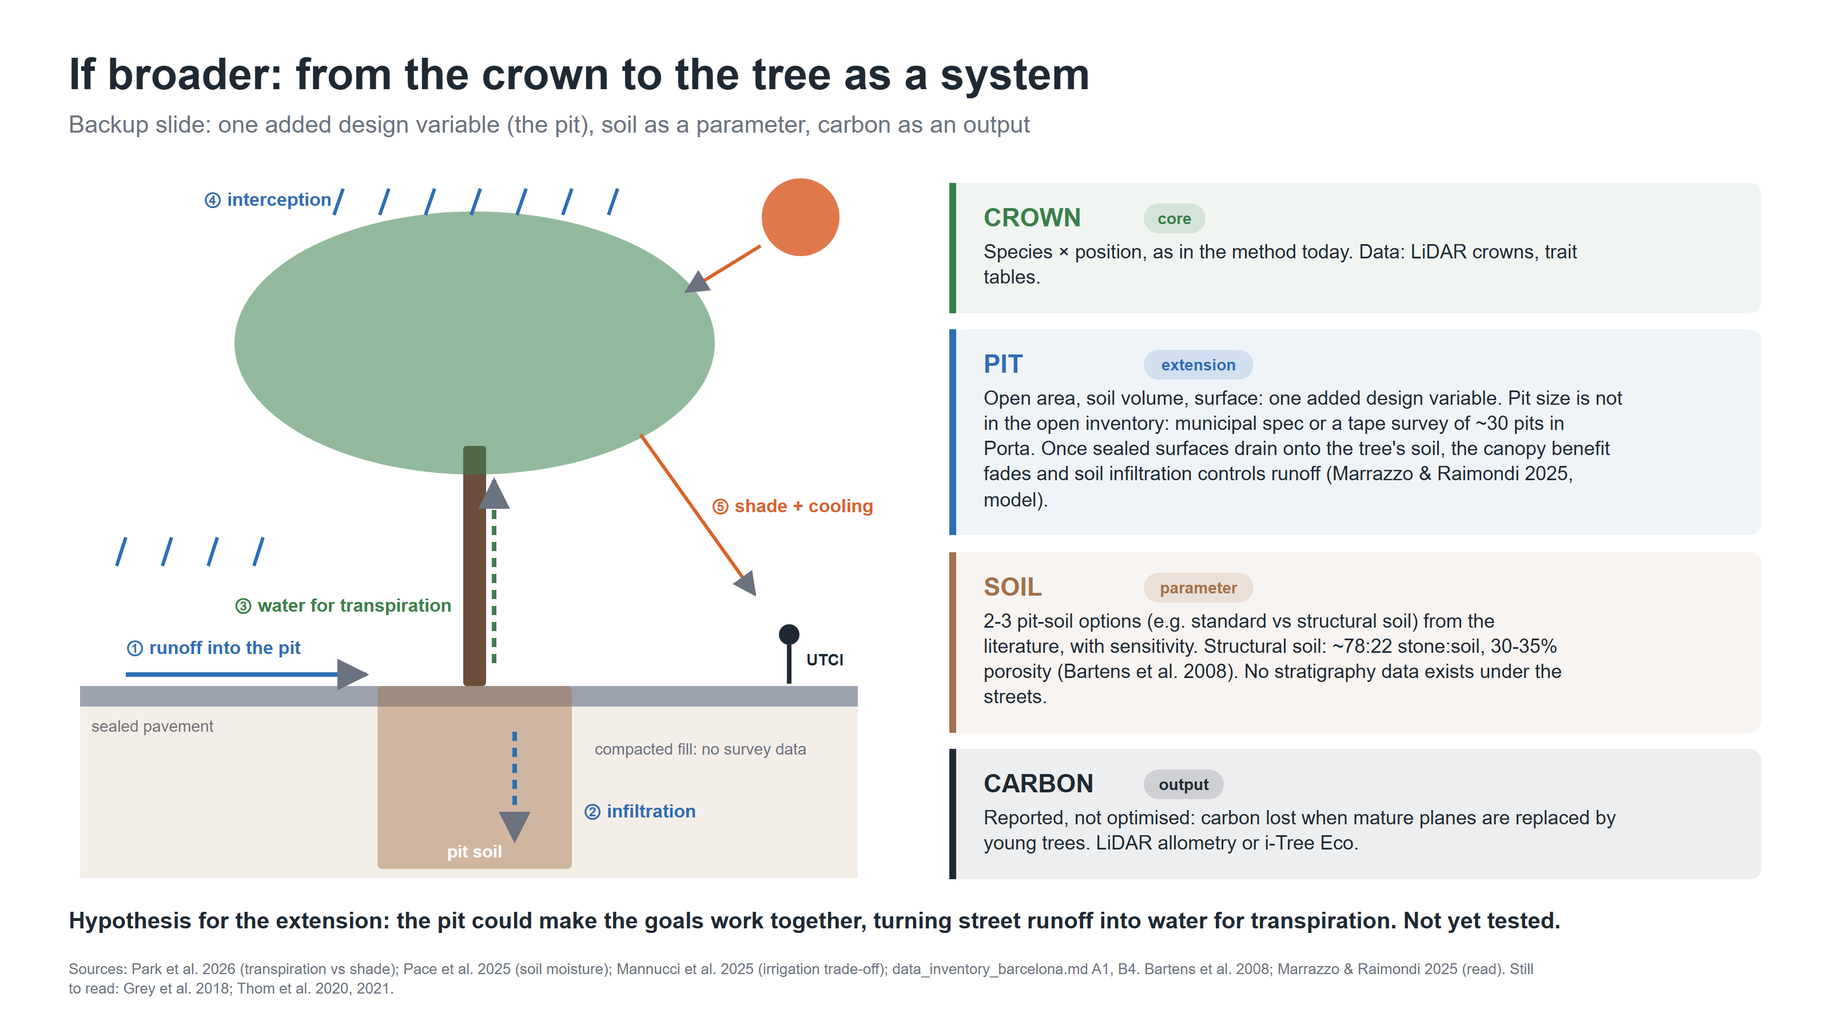
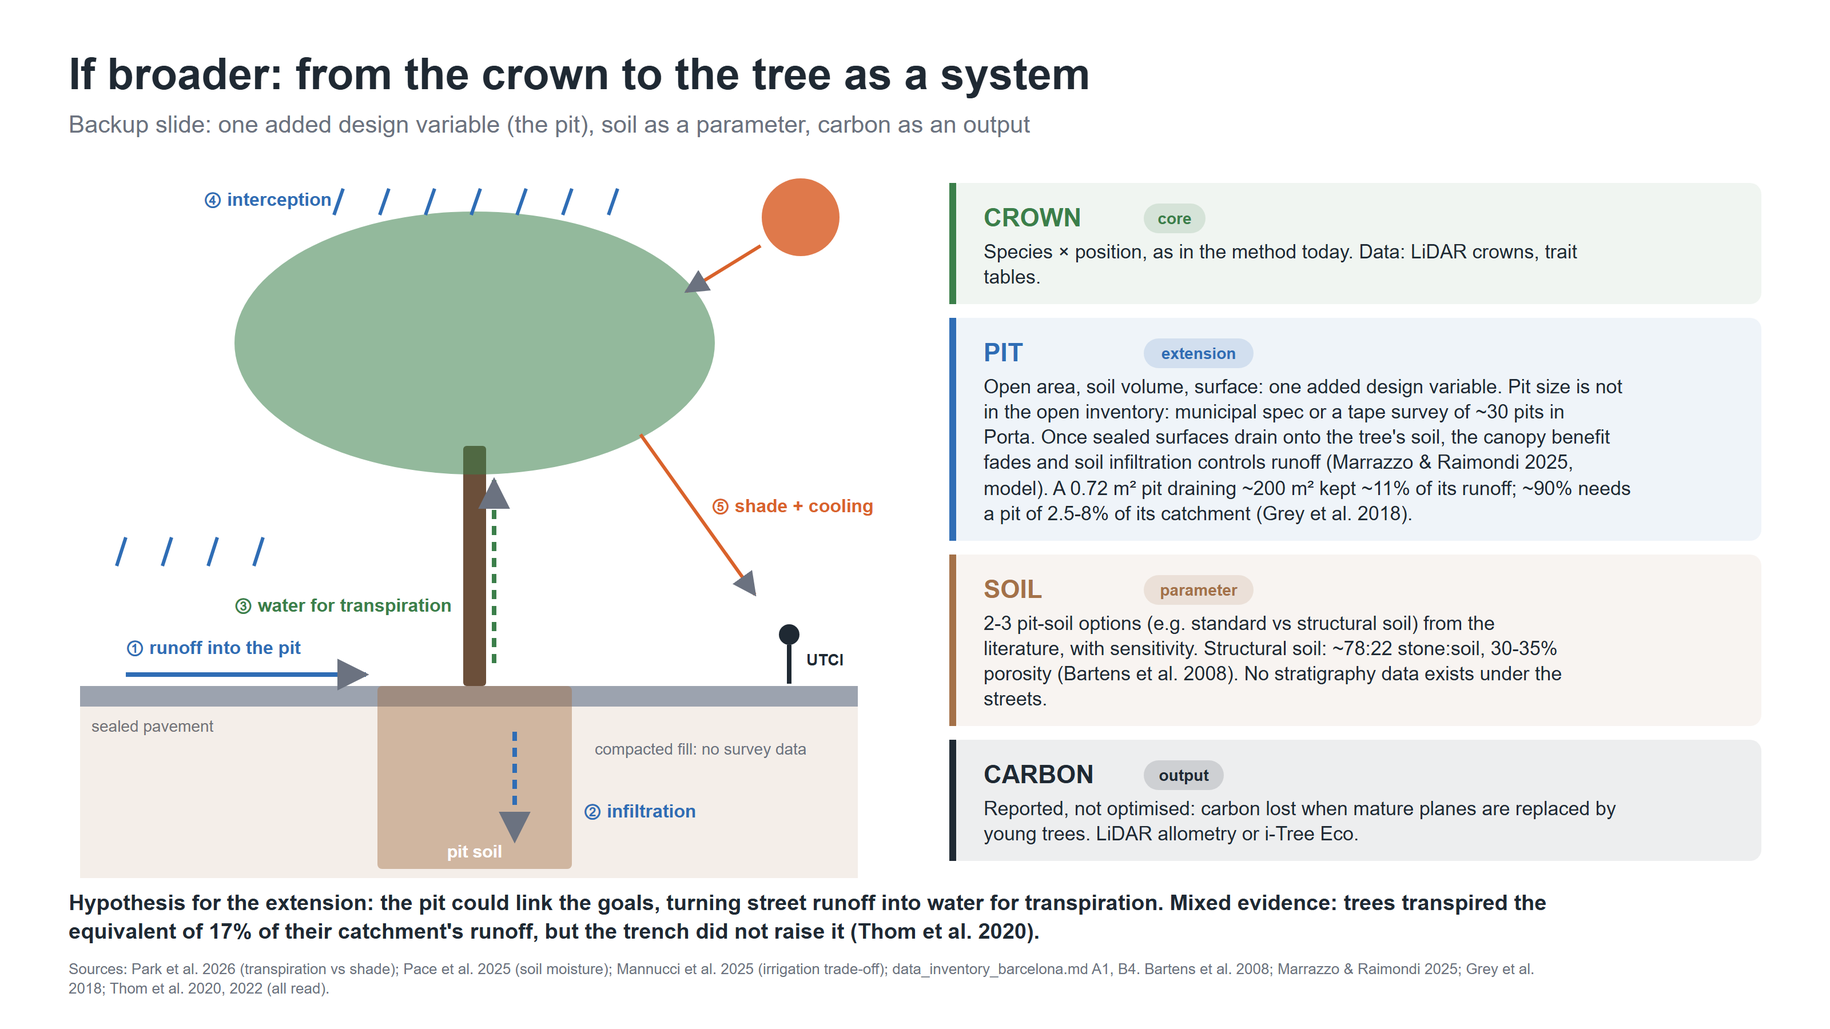
Read the three tree-pit papers (Grey 2018, Thom 2020, Thom 2022)
- Literature matrix rows 77-79; 79 sources, 65 read in full.
- Backup slide B1 and figure 7: pit sizing (0.72 m2 pits draining ~200 m2
  kept a median 11%; ~90% needs pits of 2.5-8% of the catchment) and the
  transpiration link stated as mixed evidence (17% of catchment runoff
  transpired, but trenches did not raise transpiration).
- Methodology: pit variables (pit-to-catchment ratio, native-soil
  exfiltration) and species crop factor (Pyrus calleryana high).
- Species measurements: Pyrus crop factor class; Jacaranda water use
  (second-hand, figure 5 note e).
- to_get_manually.md: the three moved to obtained (43 of 96).
- Fixes from the fact-checker run before commit.

diff --git a/scripts/make_infographics.py b/scripts/make_infographics.py
@@ -267,7 +267,8 @@ def fig_palette():
              ("Pyrus calleryana", 4): ("b", "Pyrus: UTCI -3.5 to -6.3 °C, but modelled as a default ENVI-met tree, so it reflects size, not species (Silva et al. 2025)"),
              ("Tipuana tipu", 4): ("c", "Tipuana: PET -15.6 °C, second-hand only (Santos Nouri et al. 2018, cited in Silva et al. 2025)"),
              ("Jacaranda mimosifolia", 3): ("d", "Jacaranda: 15.3% interception for a small tree, city-scale model, second-hand (Xiao & McPherson 2003, cited in Huang et al. 2017)"),
-             ("Brachychiton populneus", 4): ("e", "Brachychiton: transpiration only (lowest of the Los Angeles species), second-hand (McCarthy et al. 2011, cited in Berland et al. 2017)")}
+             ("Brachychiton populneus", 4): ("e", "Brachychiton, Jacaranda: water use only, second-hand (McCarthy et al. 2011 via Berland et al. 2017; Pataki et al. 2011 via Thom et al. 2022)"),
+             ("Jacaranda mimosifolia", 4): ("e", "Brachychiton, Jacaranda: water use only, second-hand (McCarthy et al. 2011 via Berland et al. 2017; Pataki et al. 2011 via Thom et al. 2022)")}
     cx = [700, 880, 1060, 1240, 1420]
     b = "".join(para(x, 175, c, 170, 16, weight="bold", anchor="middle", fill=col)[0] for x, (c, col, _) in zip(cx, cols))
     y = 225
@@ -283,8 +284,8 @@ def fig_palette():
             b += line(60, y + 62, 1540, y + 62, GRID, 2)
         y += 56 if not cur else 70
     b += legend_balls(60, y + 10)
-    b += "".join(t(60, y + 40 + 18 * j, f"({k}) {v}", 14, MUTED) for j, (k, v) in enumerate(notes.values()))
-    tk, _ = para(60, y + 70 + 18 * len(notes), "Every candidate's crown can be measured on site. Rain storage is measured for one candidate (Pyrus), "
+    b += "".join(t(60, y + 40 + 18 * j, f"({k}) {v}", 14, MUTED) for j, (k, v) in enumerate(dict.fromkeys(notes.values())))
+    tk, _ = para(60, y + 70 + 18 * len(set(notes.values())), "Every candidate's crown can be measured on site. Rain storage is measured for one candidate (Pyrus), "
                               "plus Celtis through a congener; cooling values are only modelled or second-hand. The method fills the gaps "
                               "with trait proxies and sensitivity ranges, and reports them as a finding.", 1480, 19, weight="bold")
     save("05_palette_data_gap", "The replacement palette: crowns we can measure, rain and cooling mostly not",
@@ -357,7 +358,8 @@ def fig_tree_system():
     cards = [("CROWN", TREE, "core", "Species × position, as in the method today. Data: LiDAR crowns, trait tables."),
              ("PIT", RAIN, "extension", "Open area, soil volume, surface: one added design variable. Pit size is not in the open inventory: "
               "municipal spec or a tape survey of ~30 pits in Porta. Once sealed surfaces drain onto the tree's soil, the "
-              "canopy benefit fades and soil infiltration controls runoff (Marrazzo & Raimondi 2025, model)."),
+              "canopy benefit fades and soil infiltration controls runoff (Marrazzo & Raimondi 2025, model). A 0.72 m\u00b2 pit draining ~200 m\u00b2 "
+              "kept ~11% of its runoff; ~90% needs a pit of 2.5-8% of its catchment (Grey et al. 2018)."),
              ("SOIL", SOIL, "parameter", "2-3 pit-soil options (e.g. standard vs structural soil) from the literature, with "
               "sensitivity. Structural soil: ~78:22 stone:soil, 30-35% porosity (Bartens et al. 2008). No stratigraphy data exists under the streets."),
              ("CARBON", INK, "output", "Reported, not optimised: carbon lost when mature planes are replaced by young trees. "
@@ -365,16 +367,16 @@ def fig_tree_system():
     y = 160
     for head, col, tag, txt in cards:
         p, hh = para(860, y + 66, txt, 640, 17)
-        hgt = max(hh + 70, 110)
+        hgt = max(hh + 62, 100)
         b += rect(830, y, 710, hgt, col, rx=10, op=0.08) + rect(830, y, 6, hgt, col, rx=0)
         b += t(860, y + 38, head, 22, col, "bold") + chip(1000, y + 18, tag, col) + p
-        y += hgt + 14
-    tk, _ = para(60, 812, "Hypothesis for the extension: the pit could make the goals work together, turning street runoff "
-                                "into water for transpiration. Not yet tested.", 1480, 20, weight="bold")
+        y += hgt + 12
+    tk, _ = para(60, 796, "Hypothesis for the extension: the pit could link the goals, turning street runoff into water for transpiration. Mixed evidence: "
+                                "trees transpired the equivalent of 17% of their catchment's runoff, but the trench did not raise it (Thom et al. 2020).", 1480, 19, weight="bold")
     save("07_tree_system_backup", "If broader: from the crown to the tree as a system",
          "Backup slide: one added design variable (the pit), soil as a parameter, carbon as an output", b + tk,
          "Park et al. 2026 (transpiration vs shade); Pace et al. 2025 (soil moisture); Mannucci et al. 2025 (irrigation trade-off); "
-         "data_inventory_barcelona.md A1, B4. Bartens et al. 2008; Marrazzo & Raimondi 2025 (read). Still to read: Grey et al. 2018; Thom et al. 2020, 2021.")
+         "data_inventory_barcelona.md A1, B4. Bartens et al. 2008; Marrazzo & Raimondi 2025; Grey et al. 2018; Thom et al. 2020, 2022 (all read).")
 
 
 if __name__ == "__main__":

diff --git a/notes/lit/to_get_manually.md b/notes/lit/to_get_manually.md
@@ -2,17 +2,14 @@
 
 Paywalled, or no open-access PDF found by the search. Get them through Zotero / IAAC access, save them in `papers/`, then tell Claude, which reads them and updates `literature_matrix.csv`. T1 = screened as most relevant, T2 = second tier.
 
-**Status 9 Oct 2026:** 40 of 96 obtained and read in full; 56 of the list still to get, plus 1 added by hand (Santos Nouri 2018). Years in the entries are the search's (often online) years; the matrix uses the issue year (e.g. Zölch 2019, Cortinovis 2022, Marrazzo 2025).
+**Status 9 Oct 2026:** 43 of 96 obtained and read in full; 53 of the list still to get, plus 1 added by hand (Santos Nouri 2018). Years in the entries are the search's (often online) years; the matrix uses the issue year (e.g. Zölch 2019, Cortinovis 2022, Marrazzo 2025).
 
-## 1. Get these first (12)
-Selbig, Dowtin, Hassan, de Mello, Rahman 2019, Speak, Kaluarachchi and Santos Nouri carry claims that the slides, figures or notes now take from abstracts or second-hand; Grey and Thom are needed for backup slide B1; Tan is the last gap check.
+## 1. Get these first (9)
+Selbig, Dowtin, Hassan, de Mello, Rahman 2019, Speak, Kaluarachchi and Santos Nouri carry claims that the slides, figures or notes now take from abstracts or second-hand; Tan is the last gap check.
 
 - [ ] [T1] William R. Selbig (2021). Quantifying the stormwater runoff volume reduction benefits of urban street tree canopy. https://doi.org/10.1016/j.scitotenv.2021.151296 **Why:** the field benchmark on slides 4 and 9 (now read only from the abstract and via Coville 2022). (matrix #10, abstract only)
 - [ ] [T2] Zhe Tan (2026). Surrogate-assisted multi-objective optimization of micro-scale urban tree configurations for heat-stress mitigation with ecological co-benefits. https://doi.org/10.1016/j.scs.2026.107726 **Why:** surrogate-assisted multi-objective tree configuration: the last paper that could overlap the gap.
 - [ ] [T1] Asia L. Dowtin (2023). Towards optimized runoff reduction by urban tree cover: A review of key physical tree traits, site conditions, and management strategies. https://doi.org/10.1016/j.landurbplan.2023.104849 **Why:** review of the tree traits that reduce runoff. (matrix #4, abstract only)
-- [ ] [T2] Vaughn Grey (2018). Tree pits to help mitigate runoff in dense urban areas. https://doi.org/10.1016/j.jhydrol.2018.08.038 **Why:** tree pits in dense streets (backup slide B1).
-- [ ] [T1] Jasmine K. Thom (2020). Transpiration by established trees could increase the efficiency of stormwater control measures. https://doi.org/10.1016/j.watres.2020.115597 **Why:** transpiration in stormwater tree pits (backup slide B1).
-- [ ] [T2] Jasmine K. Thom (2021). Selecting tree species with high transpiration and drought avoidance to optimise runoff reduction in passive irrigation systems. https://doi.org/10.1016/j.scitotenv.2021.151466 **Why:** species with high transpiration for passively irrigated pits (backup slide B1).
 - [ ] [T1] Tarique Hassan (2017). Remote sensing upscaling of interception loss from isolated oaks: Sardon catchment case study, Spain. https://doi.org/10.1016/j.jhydrol.2017.08.016 **Why:** Quercus ilex vs Q. pyrenaica bars in figure 2 (abstract only). (matrix #8, abstract only)
 - [ ] [T1] Carlos Rogério de Mello (2024). Deciphering global patterns of forest canopy rainfall interception (FCRI): A synthesis of geographical, forest species, and methodological influences. https://doi.org/10.1016/j.jenvman.2024.120879 **Why:** global median interception line in figure 2 (abstract only). (matrix #34, abstract only)
 - [ ] [T1] Mohammad A. Rahman (2019). Traits of trees for cooling urban heat islands: A meta-analysis. https://doi.org/10.1016/j.buildenv.2019.106606 **Why:** tree-trait cooling meta-analysis, figure 3 (abstract only). (matrix #38, abstract only)
@@ -73,8 +70,11 @@ Selbig, Dowtin, Hassan, de Mello, Rahman 2019, Speak, Kaluarachchi and Santos No
 - [ ] [T2] Julie Schooling (2015). The influence of rainfall depth class and deciduous tree traits on stemflow production in an urban park. https://doi.org/10.1007/s11252-015-0441-0
 - [ ] [T2] Alireza Nooraei Beidokhti (2021). The effects of precipitation, tree phenology, leaf area index, and bark characteristics on throughfall rates by urban trees: A meta-data analysis. https://doi.org/10.1016/j.ufug.2021.127052
 
-## 3. Obtained and read in full (40)
+## 3. Obtained and read in full (43)
 
+- [x] [T2] Vaughn Grey (2018). Tree pits to help mitigate runoff in dense urban areas. https://doi.org/10.1016/j.jhydrol.2018.08.038 (matrix #77, full text (9 Oct))
+- [x] [T1] Jasmine K. Thom (2020). Transpiration by established trees could increase the efficiency of stormwater control measures. https://doi.org/10.1016/j.watres.2020.115597 (matrix #78, full text (9 Oct))
+- [x] [T2] Jasmine K. Thom (2021). Selecting tree species with high transpiration and drought avoidance to optimise runoff reduction in passive irrigation systems. https://doi.org/10.1016/j.scitotenv.2021.151466 (matrix #79, full text (9 Oct))
 - [x] [T1] Julia Bartens (2008). Can Urban Tree Roots Improve Infiltration through Compacted Subsoils for Stormwater Management?. https://doi.org/10.2134/jeq2008.0117 (matrix #16, full text (8 Oct))
 - [x] [T1] Rizna Rahmi (2025). From native status to functional traits: Rethinking plant selections in global bioretention guidelines. https://doi.org/10.1016/j.ecoleng.2025.107545 (matrix #26, full text (8 Oct))
 - [x] [T1] Dashuai Zhang (2019). Increase and Spatial Variation in Soil Infiltration Rates Associated with Fibrous and Tap Tree Roots. https://doi.org/10.3390/w11081700 (matrix #17, full text (8 Oct))

diff --git a/notes/methodology.md b/notes/methodology.md
@@ -35,7 +35,7 @@ For each tree: position, species, **height H, crown diameter D, crown base Hb** 
 Event based, per street segment:
 1. Rain depth P(T, d) from the PDISBA IDF curves, T = 1, 2, 10 yr, d = 1 h (plus observed storms if BCASA gauge data arrive; fallback: Netatmo personal weather stations, 5-min public data, r = 0.94 with official daily gauges for one event, 24 station pairs, Valencia, Rombeek et al. 2025; check station density in Nou Barris and the data terms first).
 2. **Canopy interception** over each crown's projection on sealed ground: storage-bucket I = min(P, S) with S from species storage capacity × LAI. An analytical Gash-type model (Hassan et al. 2017; Huang et al. 2017) is the refinement; Huang et al. validated it on two conifers only, and found the evaporation-to-rain ratio the most sensitive input. Stemflow is ignored (<1% of rain; Anys & Weiler 2024).
-3. **Tree-pit infiltration**: pit area × infiltration rate × event duration (literature range; Bartens et al. 2008, Zhang et al. 2019). Absolute values from Bartens et al. (read in full): approximate container saturated conductivity of compacted clay loam (1.59 g/cm3) 1.3e-3 cm/s (~47 mm/h) without a tree, 3.0–3.9e-3 cm/s (~108–140 mm/h) with young oak or maple; 1.31e-3 vs 4.83e-5 cm/s (~47 vs ~1.7 mm/h) with vs without green ash (structural soil over compacted subsoil). These are lab values for the most restrictive layer, so use them only to bracket a sensitivity range. Zhang et al. (2019, read in full), three-year-old saplings in loam tanks, one year after planting: 0.28 m/d (~12 mm/h) without a tree, 0.33 m/d (+19%, fibrous *Malus baccata*), 0.61 m/d (~25 mm/h, +118%, tap-rooted *Sophora japonica* = *Styphnolobium*). Roots help; whether the effect depends on species is unclear (Bartens: oak vs maple not significant; Zhang: tap vs fibrous differ, young trees in tanks), so the term stays species-independent. Why the pit matters: once sealed surfaces drain onto the tree's soil, the canopy benefit fades and infiltration controls runoff; with run-on from 3× the soil area, raising infiltration from 0.036 to 3.6 mm/h cuts the November runoff probability from 89% to <1% (Marrazzo & Raimondi 2025, analytical model, *Platanus*, Lecco rain).
+3. **Tree-pit infiltration**: pit area × infiltration rate × event duration (literature range; Bartens et al. 2008, Zhang et al. 2019). Absolute values from Bartens et al. (read in full): approximate container saturated conductivity of compacted clay loam (1.59 g/cm3) 1.3e-3 cm/s (~47 mm/h) without a tree, 3.0–3.9e-3 cm/s (~108–140 mm/h) with young oak or maple; 1.31e-3 vs 4.83e-5 cm/s (~47 vs ~1.7 mm/h) with vs without green ash (structural soil over compacted subsoil). These are lab values for the most restrictive layer, so use them only to bracket a sensitivity range. Zhang et al. (2019, read in full), three-year-old saplings in loam tanks, one year after planting: 0.28 m/d (~12 mm/h) without a tree, 0.33 m/d (+19%, fibrous *Malus baccata*), 0.61 m/d (~25 mm/h, +118%, tap-rooted *Sophora japonica* = *Styphnolobium*). Roots help; whether the effect depends on species is unclear (Bartens: oak vs maple not significant; Zhang: tap vs fibrous differ, young trees in tanks), so the term stays species-independent. Why the pit matters: once sealed surfaces drain onto the tree's soil, the canopy benefit fades and infiltration controls runoff; with run-on from 3× the soil area, raising infiltration from 0.036 to 3.6 mm/h cuts the November runoff probability from 89% to <1% (Marrazzo & Raimondi 2025, analytical model, *Platanus*, Lecco rain). Pit sizing (read in full): in Melbourne clay, 0.72 m² kerb pits draining ~200 m² kept a median 11% of runoff; ~90% retention needs a pit of 2.5–8% of its impervious catchment, and exfiltration (≥ 88%), not the young tree (~4%), removes the water (Grey et al. 2018). Established evergreen street trees transpired the equivalent of 17% of the annual runoff from the ~200 m² impervious catchment draining to each 6 m² trench, but the trench did not raise their transpiration (Thom et al. 2020; Apr–Sep modelled from ETo). If the pit is added, its variables are pit area relative to catchment and native-soil exfiltration; species enter through the crop factor (0.33–1.56 among 13 potted species, *Pyrus calleryana* in the high class; Thom et al. 2022), which matters little while trees are young (crop factor < 5% effect in Grey et al. 2018).
 4. Remaining rain on sealed surfaces → SCS curve number (CN ≈ 98 sealed) → **event runoff volume (m³)**.
 - **Validation:** (i) interception module vs the open Freiburg field data (Anys & Weiler 2024, FreiDok); (ii) per-tree and per-m²-canopy volumes vs paired-catchment benchmarks (Selbig et al. 2021: 6,376 L/tree; Coville et al. 2022: field 66 L/m² canopy per leaf-on season, calibrated i-Tree Hydro 6,120 L/tree and 63.5 L/m²; uncalibrated defaults gave about twice the total runoff); (iii) plausibility vs the flood-hazard index pattern.
 

diff --git a/slides/outline_20oct.md b/slides/outline_20oct.md
@@ -28,7 +28,7 @@
 
 ### 4. Literature, runoff side [2:05]
 **Visual:** `slides/fig/02_runoff_evidence.png`, with `01_lit_map.png` small in a corner (or as a backup slide).
-**Say:** "The literature review covers 76 sources. On the runoff side, two findings matter. First, species differ. In field studies a crown intercepts roughly 10 to 70 percent of rainfall, and the main driver is leaf area. Second, the benefit fades as storms grow. A paired-catchment study measured a 3.5 to 4 percent cut in runoff volume from street trees, with no effect on peak flow. So trees are a tool for frequent storms, not for extreme events."
+**Say:** "The literature review covers 79 sources. On the runoff side, two findings matter. First, species differ. In field studies a crown intercepts roughly 10 to 70 percent of rainfall, and the main driver is leaf area. Second, the benefit fades as storms grow. A paired-catchment study measured a 3.5 to 4 percent cut in runoff volume from street trees, with no effect on peak flow. So trees are a tool for frequent storms, not for extreme events."
 
 ### 5. Literature: same tree, two jobs [2:40]
 **Visual:** `slides/fig/03_heat_runoff_traits.png`
@@ -70,10 +70,10 @@
 
 **Say (~85 words, only if asked):** "If the scope needs to be wider, I would not add parallel themes. I would widen the tree into a system. The pit is the one design variable I'd add, because it links the two goals: it takes runoff from the pavement and stores it as water for transpiration, which cools the air more than shade does. Soil would enter as two or three literature options with sensitivity, since there is no survey under the streets. Carbon would be reported, not optimised."
 
-**Status of the evidence:** the water link rests on Park et al. 2026 (transpiration 1.15 °C vs shade 0.43 °C), Pace et al. 2025 (soil moisture: dry soils, more runoff reduction; wet soils, more cooling) and Mannucci et al. 2025 (irrigation trade-off). Bartens et al. 2008 is now read in full: roots raise infiltration through compacted subsoil (+63% overall and +153% in the more compacted soil; Ksat ×27 in structural soil over compacted subsoil), with no significant difference between oak and maple. Grey et al. 2018 and Thom et al. 2020, 2021 are not read yet: read them before using this slide. Pit dimensions are not in the open inventory, which has irrigation type (`tipus_reg`) and water type (`tipus_aigua`) only.
+**Status of the evidence:** the water link rests on Park et al. 2026 (transpiration 1.15 °C vs shade 0.43 °C), Pace et al. 2025 (soil moisture: dry soils, more runoff reduction; wet soils, more cooling) and Mannucci et al. 2025 (irrigation trade-off). Bartens et al. 2008 is now read in full: roots raise infiltration through compacted subsoil (+63% overall and +153% in the more compacted soil; Ksat ×27 in structural soil over compacted subsoil), with no significant difference between oak and maple. Now also read in full: Grey et al. 2018 (Melbourne clay: 0.72 m² pits draining ~200 m² of street kept a median 11% of runoff; ~90% retention needs pits of 2.5–8% of their catchment; exfiltration, not the young tree, removes ≥ 88% of the water); Thom et al. 2020 (established evergreen street trees transpired the equivalent of 17% of the annual runoff from the ~200 m² catchment draining to each 6 m² trench, though the trenches did not raise their transpiration, probably because the trees were not water-limited); Thom et al. 2022 (13 species in pots: crop factor 0.33–1.56, *Pyrus calleryana* among the high transpirers). So the pit link is plausible for large, established crowns, but untested in the field for Barcelona's deciduous palette and autumn storms (only young or potted deciduous trees so far). Pit dimensions are not in the open inventory, which has irrigation type (`tipus_reg`) and water type (`tipus_aigua`) only.
 
 ### Other backup material
-- `slides/fig/01_lit_map.png`: what the 76 sources cover, and how many I read in full.
+- `slides/fig/01_lit_map.png`: what the 79 sources cover, and how many I read in full.
 - Site-selection robustness: 2,000 random weightings, thresholds at the 50th/60th/70th percentile (`notes/site_selection.md` §3–4).
 - Calibration: `notes/figures/interception_calibration.png` (s = 1.75 mm per unit LAI; 16 trees, 51 storms).
 - Sensitivity of the tree effect, s = 0.86–2.2 mm per unit LAI: 0.4–4.0% of total runoff (`databases/barcelona/runoff_sensitivity_storage.csv`).

diff --git a/notes/todo_manual.md b/notes/todo_manual.md
@@ -17,9 +17,9 @@
 
 ### Papers (download in the browser via IAAC access; save to `papers/` and tell me, I'll digest them)
 These carry the gap and evidence slides. **First, the backup slide on tree pits** (`slides/outline_20oct.md` B1):
-- [ ] Grey et al. 2018, tree pits to mitigate runoff in dense urban areas. https://doi.org/10.1016/j.jhydrol.2018.08.038
-- [ ] Thom et al. 2020, tree transpiration and the efficiency of stormwater control measures. https://doi.org/10.1016/j.watres.2020.115597
-- [ ] Thom et al. 2021, choosing species with high transpiration for passively irrigated pits. https://doi.org/10.1016/j.scitotenv.2021.151466
+- [x] Grey et al. 2018, tree pits to mitigate runoff in dense urban areas: read in full on 9 Oct.
+- [x] Thom et al. 2020, tree transpiration and the efficiency of stormwater control measures: read in full on 9 Oct.
+- [x] Thom et al. 2022 (online 2021), choosing species with high transpiration for passively irrigated pits: read in full on 9 Oct. Backup slide B1 is now backed by all four pit papers.
 - [x] Bartens et al. 2008, tree roots and infiltration through compacted subsoil: read in full on 8 Oct (also Rahmi et al. 2025). Roots do raise infiltration, but oak vs maple did not differ.
 
 Then the gap and evidence papers:
